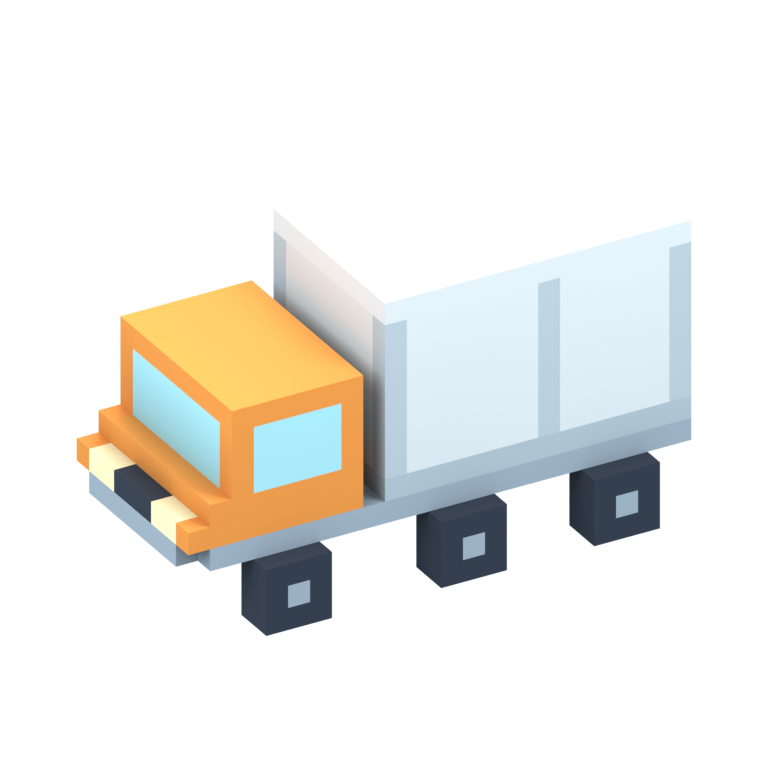
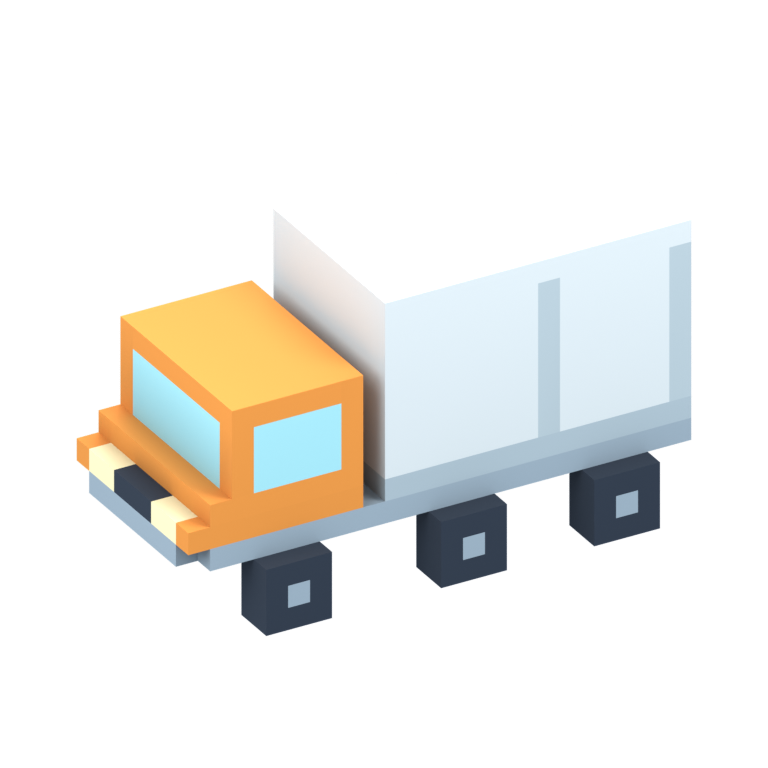
fix(art): replace truck rear glass with solid cab wall
Built-with: ChatGPT Work (GPT-6 Astra)

Changed region(s): [[0.4688, 0.4062, 0.5312, 0.625], [0.3438, 0.3125, 0.375, 0.4062]]

diff --git a/art/recipes/truck.py b/art/recipes/truck.py
@@ -7,10 +7,12 @@ def create():
     v.box(1, 22, 3, 3, 1, 9, steel)
     v.box(1, 14, 4, 12, 1, 9, '#DDE5E7')
     v.box(1, 14, 4, 4, 1, 9, '#AEBFC8')
-    for x in (1, 7, 14):
+    for x in (1, 7):
         v.box(x, x, 5, 11, 1, 1, '#B8C8CF').box(x, x, 5, 11, 9, 9, '#B8C8CF')
     v.box(16, 22, 4, 5, 1, 9, orange)
     v.box(16, 21, 6, 8, 1, 9, glass).box(16, 21, 9, 9, 1, 9, orange)
+    # Solid painted rear cab wall; no glass-colored sheet behind the driver.
+    v.box(16, 16, 6, 8, 1, 9, orange)
     for x in (16, 21):
         for d in (1, 9):
             v.box(x, x, 6, 8, d, d, orange)
